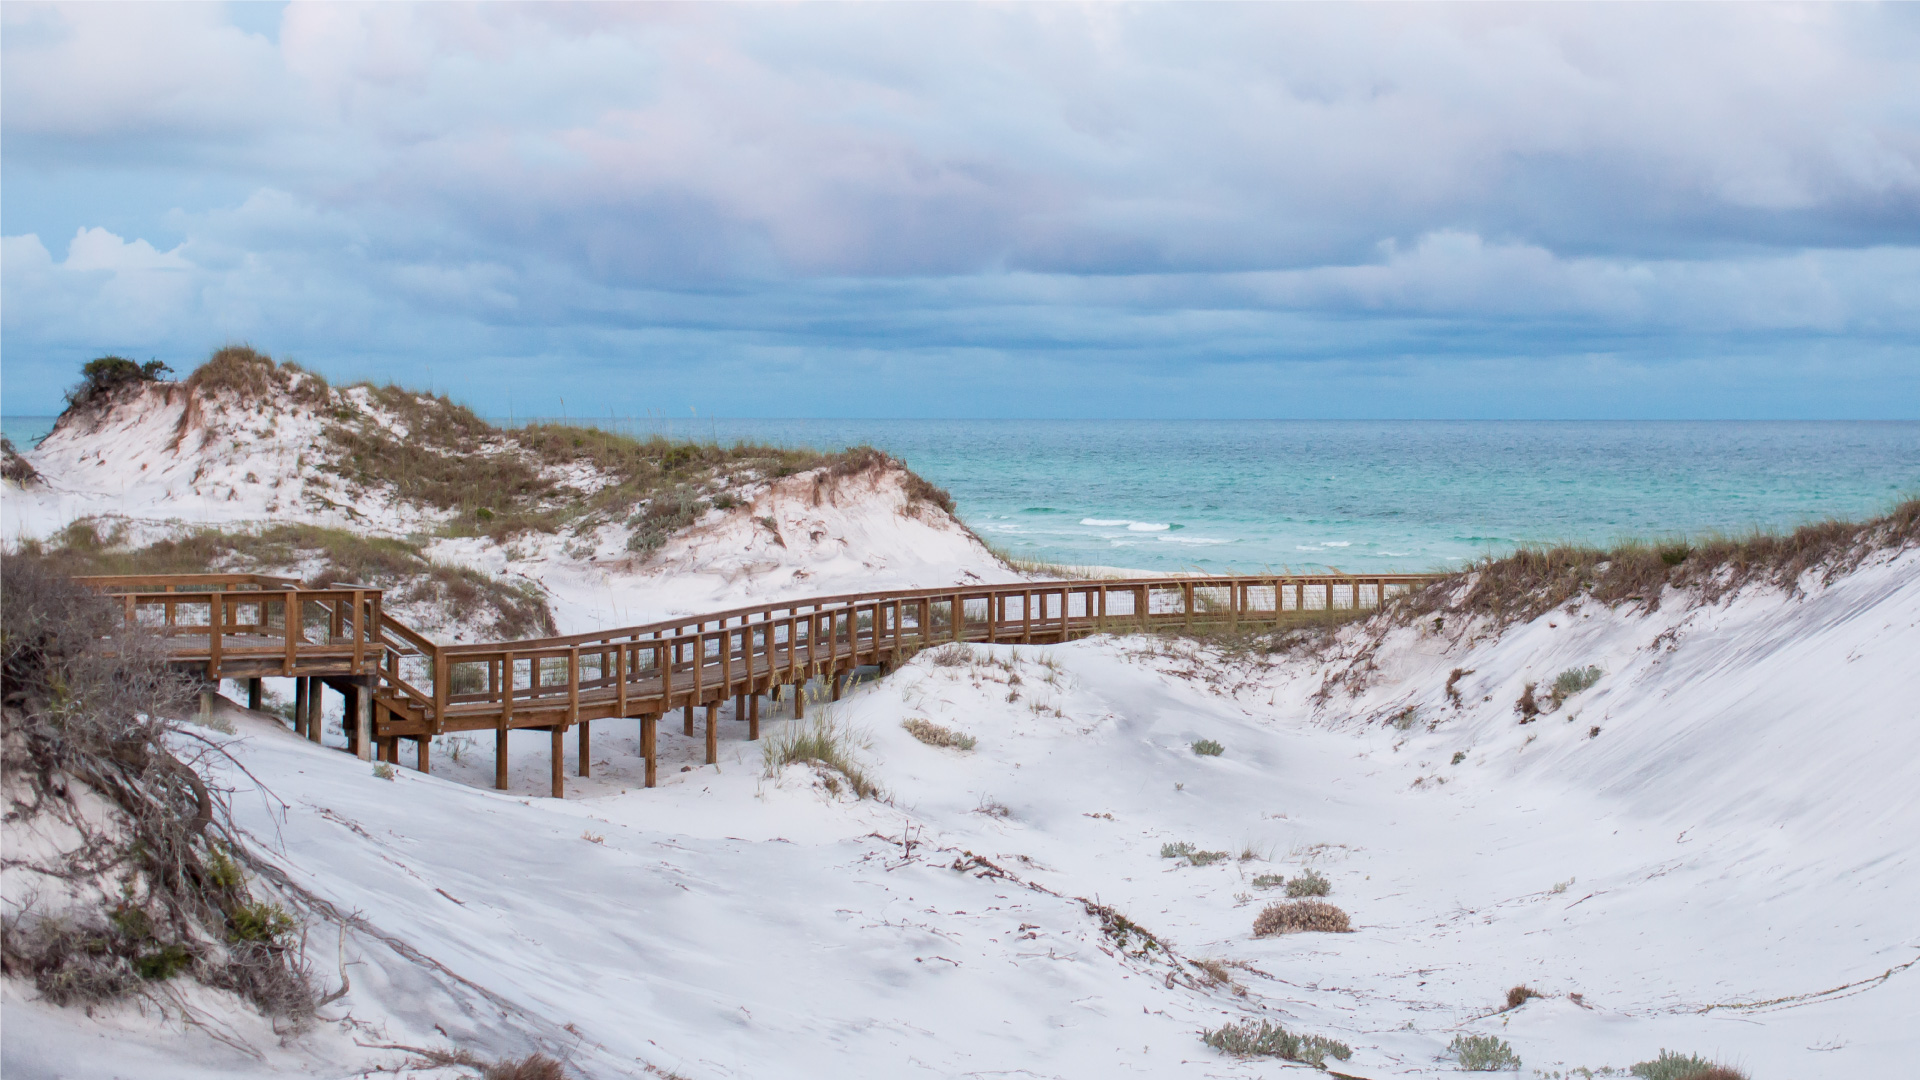
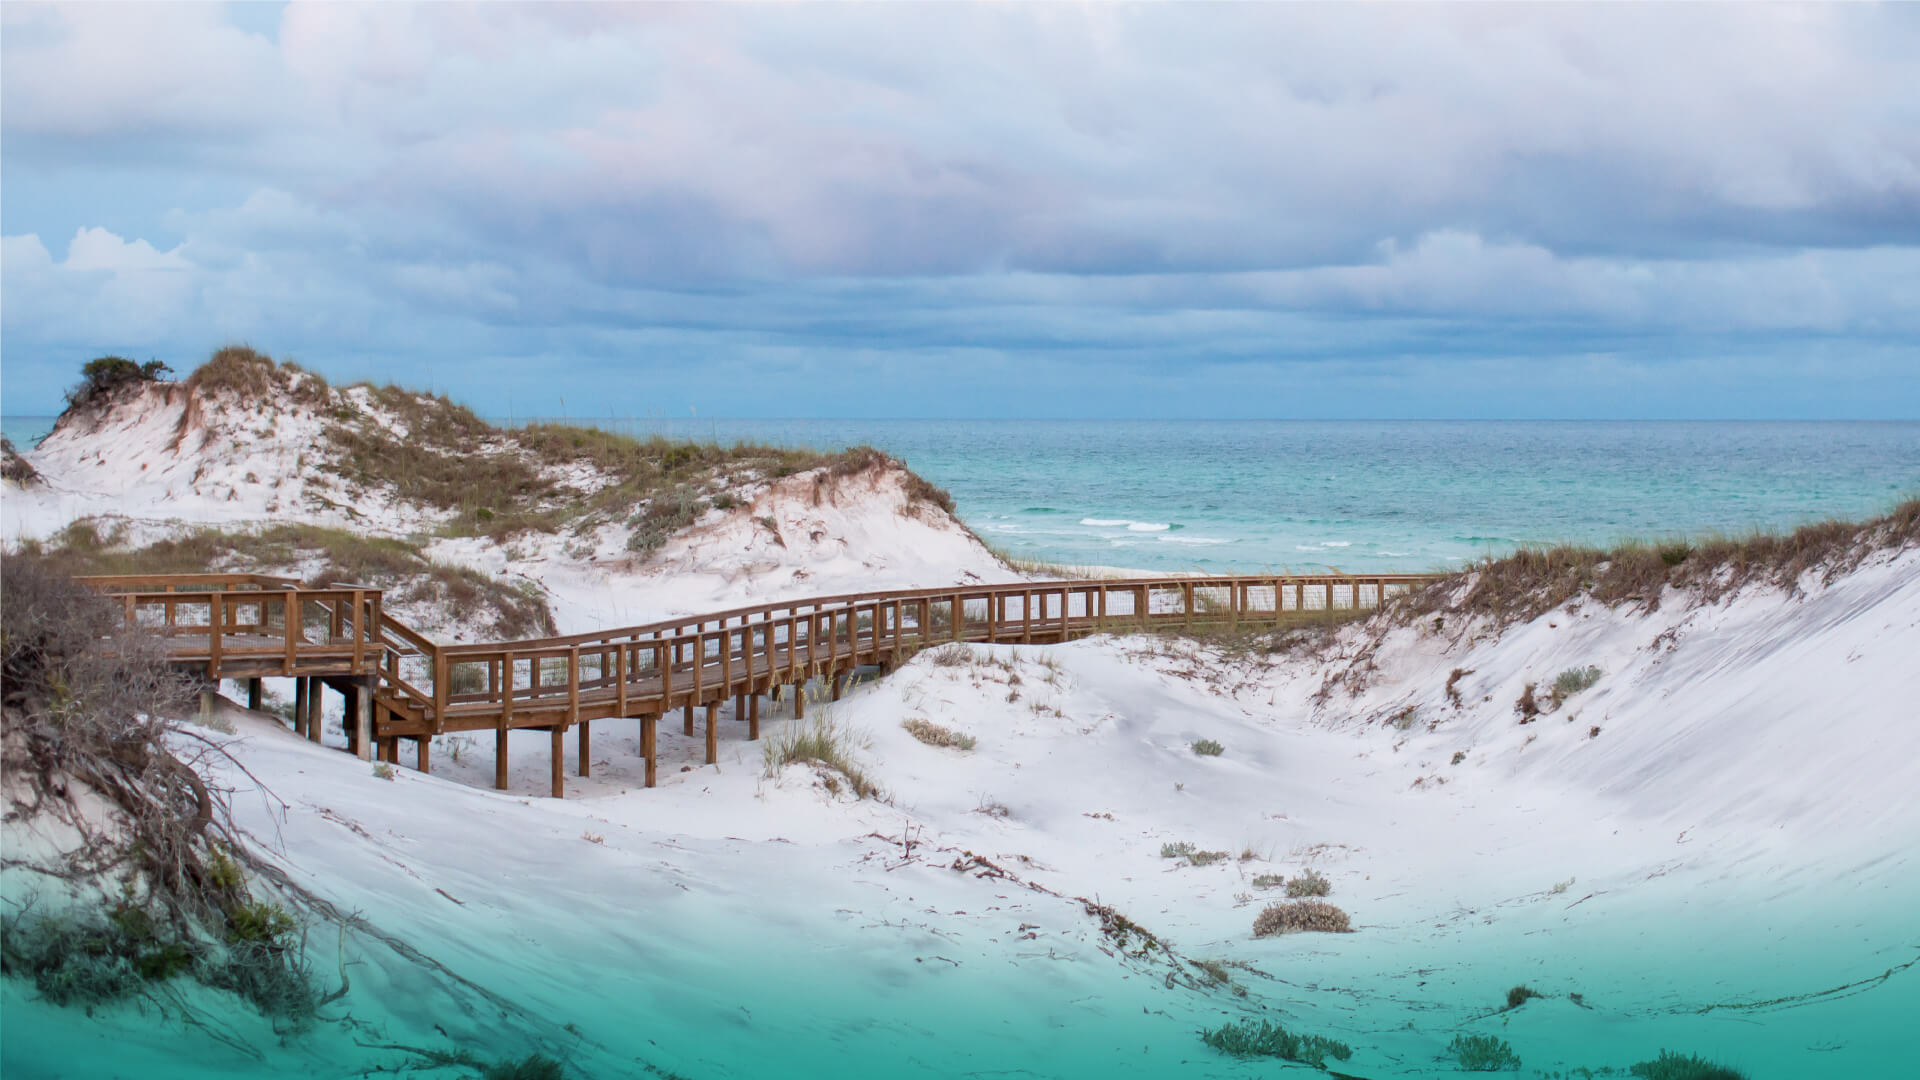
refactor: Blue mask only on mouse over

Changed region(s): [[0.0, 0.7639, 1.0, 1.0]]

diff --git a/src/layouts/Attraction/index.tsx b/src/layouts/Attraction/index.tsx
@@ -16,11 +16,11 @@ interface AttractionItem {
 export default class Attraction extends React.Component<{}, State> {
 
     static readonly attractionItemList: AttractionItem[] = [
-        { caption: "Dunes", imagePath: "/img/carousel/attraction/dunes.jpg", alt: "View of dunes with a little wood bridge", imagePosition: "center center" },
-        { caption: "Santa Rosa Beach", imagePath: "/img/carousel/attraction/santa-rosa-beach.jpg", alt: "Aerial view of Santa Rosa Beach", imagePosition: "left center" },
-        { caption: "Highway 30A", imagePath: "/img/carousel/attraction/highway-30a.jpg", alt: "Aerial view of Highway 30A", imagePosition: "center center" },
-        { caption: "Golf Club", imagePath: "/img/carousel/attraction/golf-club.jpg", alt: "Aerial view of golf club with some trees aside", imagePosition: "right center" },
-        { caption: "Fox Lake", imagePath: "/img/carousel/attraction/fox-lake.jpg", alt: "Aerial view of fox lake", imagePosition: "center center" }
+        { caption: "Dunes", imagePath: "/img/carousel/attraction/dunes.jpg", alt: "View of dunes with a little wood bridge", imagePosition: "center bottom" },
+        { caption: "Santa Rosa Beach", imagePath: "/img/carousel/attraction/santa-rosa-beach.jpg", alt: "Aerial view of Santa Rosa Beach", imagePosition: "left bottom" },
+        { caption: "Highway 30A", imagePath: "/img/carousel/attraction/highway-30a.jpg", alt: "Aerial view of Highway 30A", imagePosition: "center bottom" },
+        { caption: "Golf Club", imagePath: "/img/carousel/attraction/golf-club.jpg", alt: "Aerial view of golf club with some trees aside", imagePosition: "right bottom" },
+        { caption: "Fox Lake", imagePath: "/img/carousel/attraction/fox-lake.jpg", alt: "Aerial view of fox lake", imagePosition: "center bottom" }
     ];
 
     constructor(props: {}) {

diff --git a/src/layouts/Attraction/style.ts b/src/layouts/Attraction/style.ts
@@ -30,11 +30,11 @@ export const LocationGalleryItem = styled.li<{ state: "expanded" | "collapsed" }
         mix-blend-mode: hard-light;
         transition: opacity 0.4s ease;
         cursor: pointer;
-        opacity: ${(props) => (props.state === "expanded" ? "0" : "1")};
+        opacity: 0;
     }
 
     &:hover::after {
-        opacity: 0;
+        opacity: ${(props) => (props.state === "expanded" ? "0" : "1")};
     }
 `;
 
